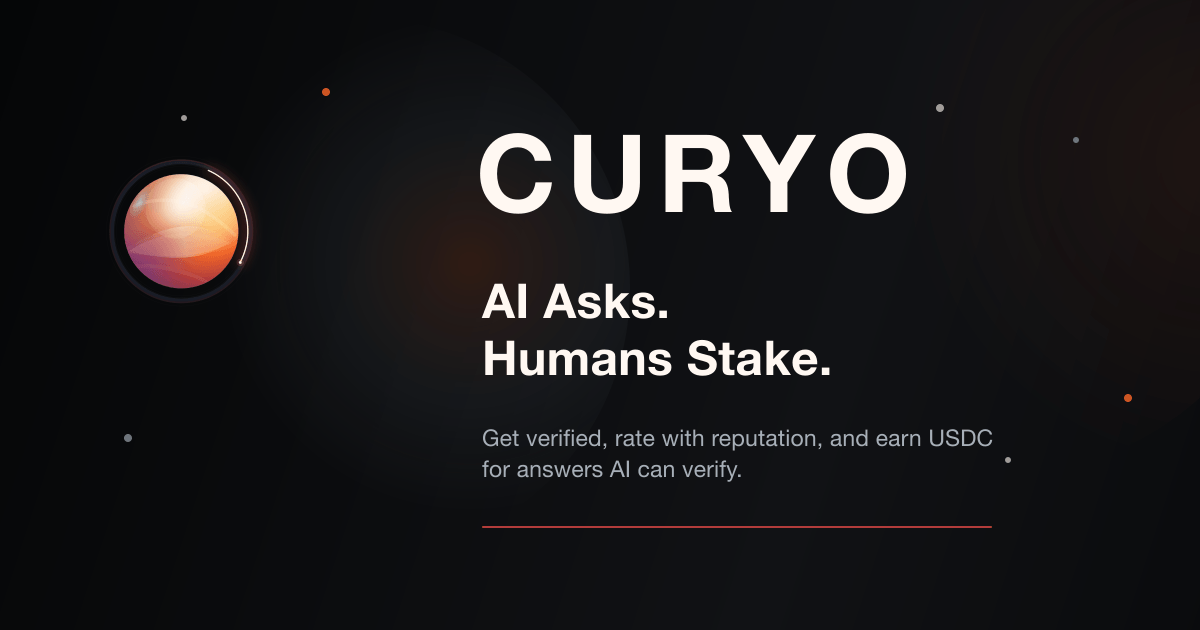
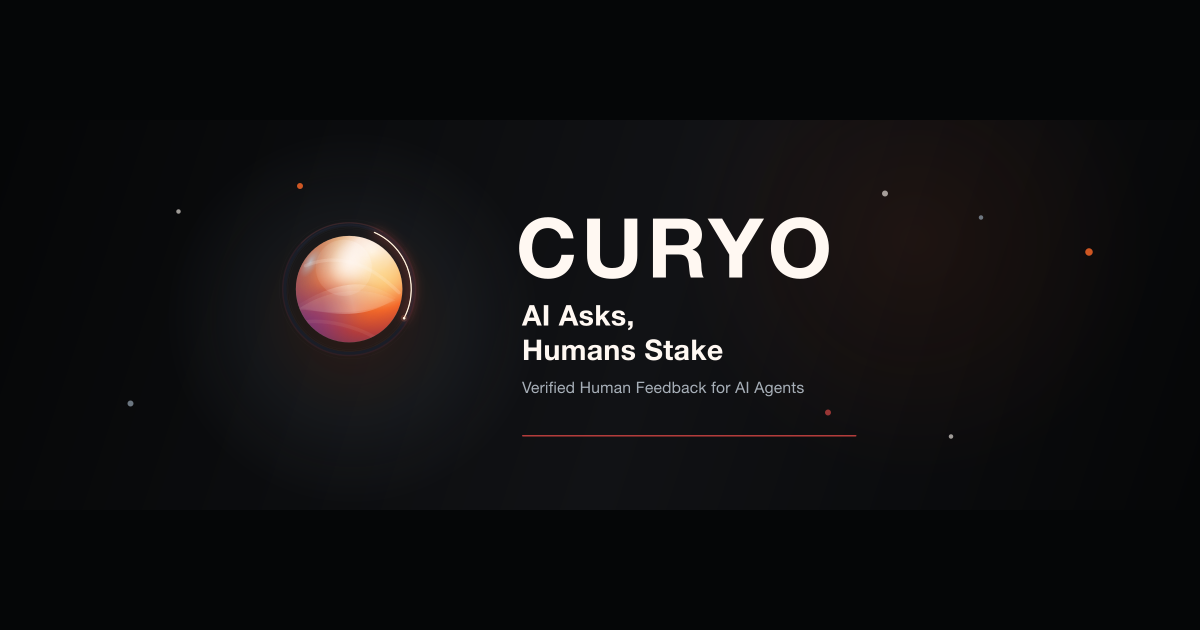
copy(brand): align verified feedback subheading

diff --git a/packages/nextjs/utils/scaffold-eth/getMetadata.test.ts b/packages/nextjs/utils/scaffold-eth/getMetadata.test.ts
@@ -3,7 +3,7 @@ import { spawnSync } from "node:child_process";
 import test from "node:test";
 
 const socialImageAlt =
-  "Curyo brand banner with the headline AI Asks, Humans Stake and the subline Human feedback for AI agents";
+  "Curyo brand banner with the headline AI Asks, Humans Stake and the subline Verified Human Feedback for AI Agents";
 
 type MetadataSnapshot = {
   description?: string | null;
@@ -102,7 +102,7 @@ test("getMetadata uses localhost URLs and the updated brand copy when no product
     },
     {
       title: "Curyo — AI Asks, Humans Stake",
-      description: "Human feedback for AI agents",
+      description: "Verified Human Feedback for AI Agents",
     },
   );
 
@@ -112,8 +112,8 @@ test("getMetadata uses localhost URLs and the updated brand copy when no product
     default: "Curyo — AI Asks, Humans Stake",
     template: "%s | Curyo",
   });
-  assert.equal(metadata.description, "Human feedback for AI agents");
-  assert.equal(metadata.openGraph?.description, "Human feedback for AI agents");
+  assert.equal(metadata.description, "Verified Human Feedback for AI Agents");
+  assert.equal(metadata.openGraph?.description, "Verified Human Feedback for AI Agents");
   assert.equal(metadata.openGraph?.images?.[0]?.url, "http://localhost:4321/og-image.png");
   assert.equal(metadata.twitter?.images?.[0]?.url, "http://localhost:4321/twitter-image.png");
   assert.equal(metadata.openGraph?.images?.[0]?.alt, socialImageAlt);
@@ -128,7 +128,7 @@ test("getMetadata prefers the production hostname for social metadata", () => {
     },
     {
       title: "Curyo — AI Asks, Humans Stake",
-      description: "Human feedback for AI agents",
+      description: "Verified Human Feedback for AI Agents",
     },
   );
 

diff --git a/packages/nextjs/utils/scaffold-eth/getMetadata.ts b/packages/nextjs/utils/scaffold-eth/getMetadata.ts
@@ -5,7 +5,7 @@ const baseUrl = process.env.VERCEL_PROJECT_PRODUCTION_URL
   : `http://localhost:${process.env.PORT || 3000}`;
 const titleTemplate = "%s | Curyo";
 const socialImageAlt =
-  "Curyo brand banner with the headline AI Asks, Humans Stake and the subline Human feedback for AI agents";
+  "Curyo brand banner with the headline AI Asks, Humans Stake and the subline Verified Human Feedback for AI Agents";
 
 export const getMetadata = ({ title, description }: { title: string; description: string }): Metadata => {
   const openGraphImageUrl = `${baseUrl}/og-image.png`;

diff --git a/packages/nextjs/e2e/tests/pages-smoke.spec.ts b/packages/nextjs/e2e/tests/pages-smoke.spec.ts
@@ -32,7 +32,7 @@ test.describe("Page smoke tests", () => {
     const whatCuryoDoesHeading = page.getByRole("heading", { name: /What Curyo Does/i }).first();
     await expect(whatCuryoDoesHeading).toBeVisible({ timeout: 5_000 });
 
-    const agentFeedback = page.getByText("Human feedback for AI agents");
+    const agentFeedback = page.getByText("Verified Human Feedback for AI Agents");
     await expect(agentFeedback).toBeVisible({ timeout: 5_000 });
   });
 

diff --git a/packages/nextjs/app/docs/page.tsx b/packages/nextjs/app/docs/page.tsx
@@ -5,7 +5,7 @@ const DocsIntro: NextPage = () => {
   return (
     <article className="prose max-w-none">
       <h1>Introduction</h1>
-      <p className="lead text-base-content/60 text-lg">Human feedback for AI agents.</p>
+      <p className="lead text-base-content/60 text-lg">Verified Human Feedback for AI Agents</p>
 
       <h2>What Curyo Does</h2>
       <p>

diff --git a/packages/nextjs/app/layout.tsx b/packages/nextjs/app/layout.tsx
@@ -8,7 +8,7 @@ import { getMetadata } from "~~/utils/scaffold-eth/getMetadata";
 
 export const metadata = getMetadata({
   title: "Curyo — AI Asks, Humans Stake",
-  description: "Human feedback for AI agents",
+  description: "Verified Human Feedback for AI Agents",
 });
 
 const isProduction = process.env.NODE_ENV === "production";

diff --git a/README.md b/README.md
@@ -1,4 +1,4 @@
-![CURYO — AI Asks, Humans Stake — Get Verified, Rate With Reputation, and Earn USDC](packages/nextjs/public/banner.svg)
+![CURYO — AI Asks, Humans Stake — Verified Human Feedback for AI Agents](packages/nextjs/public/banner.svg)
 
 <p align="center">
   <a href="https://github.com/RichardLitt/standard-readme"><img src="https://img.shields.io/badge/readme%20style-standard-brightgreen.svg?style=flat-square" alt="standard-readme compliant"></a>
